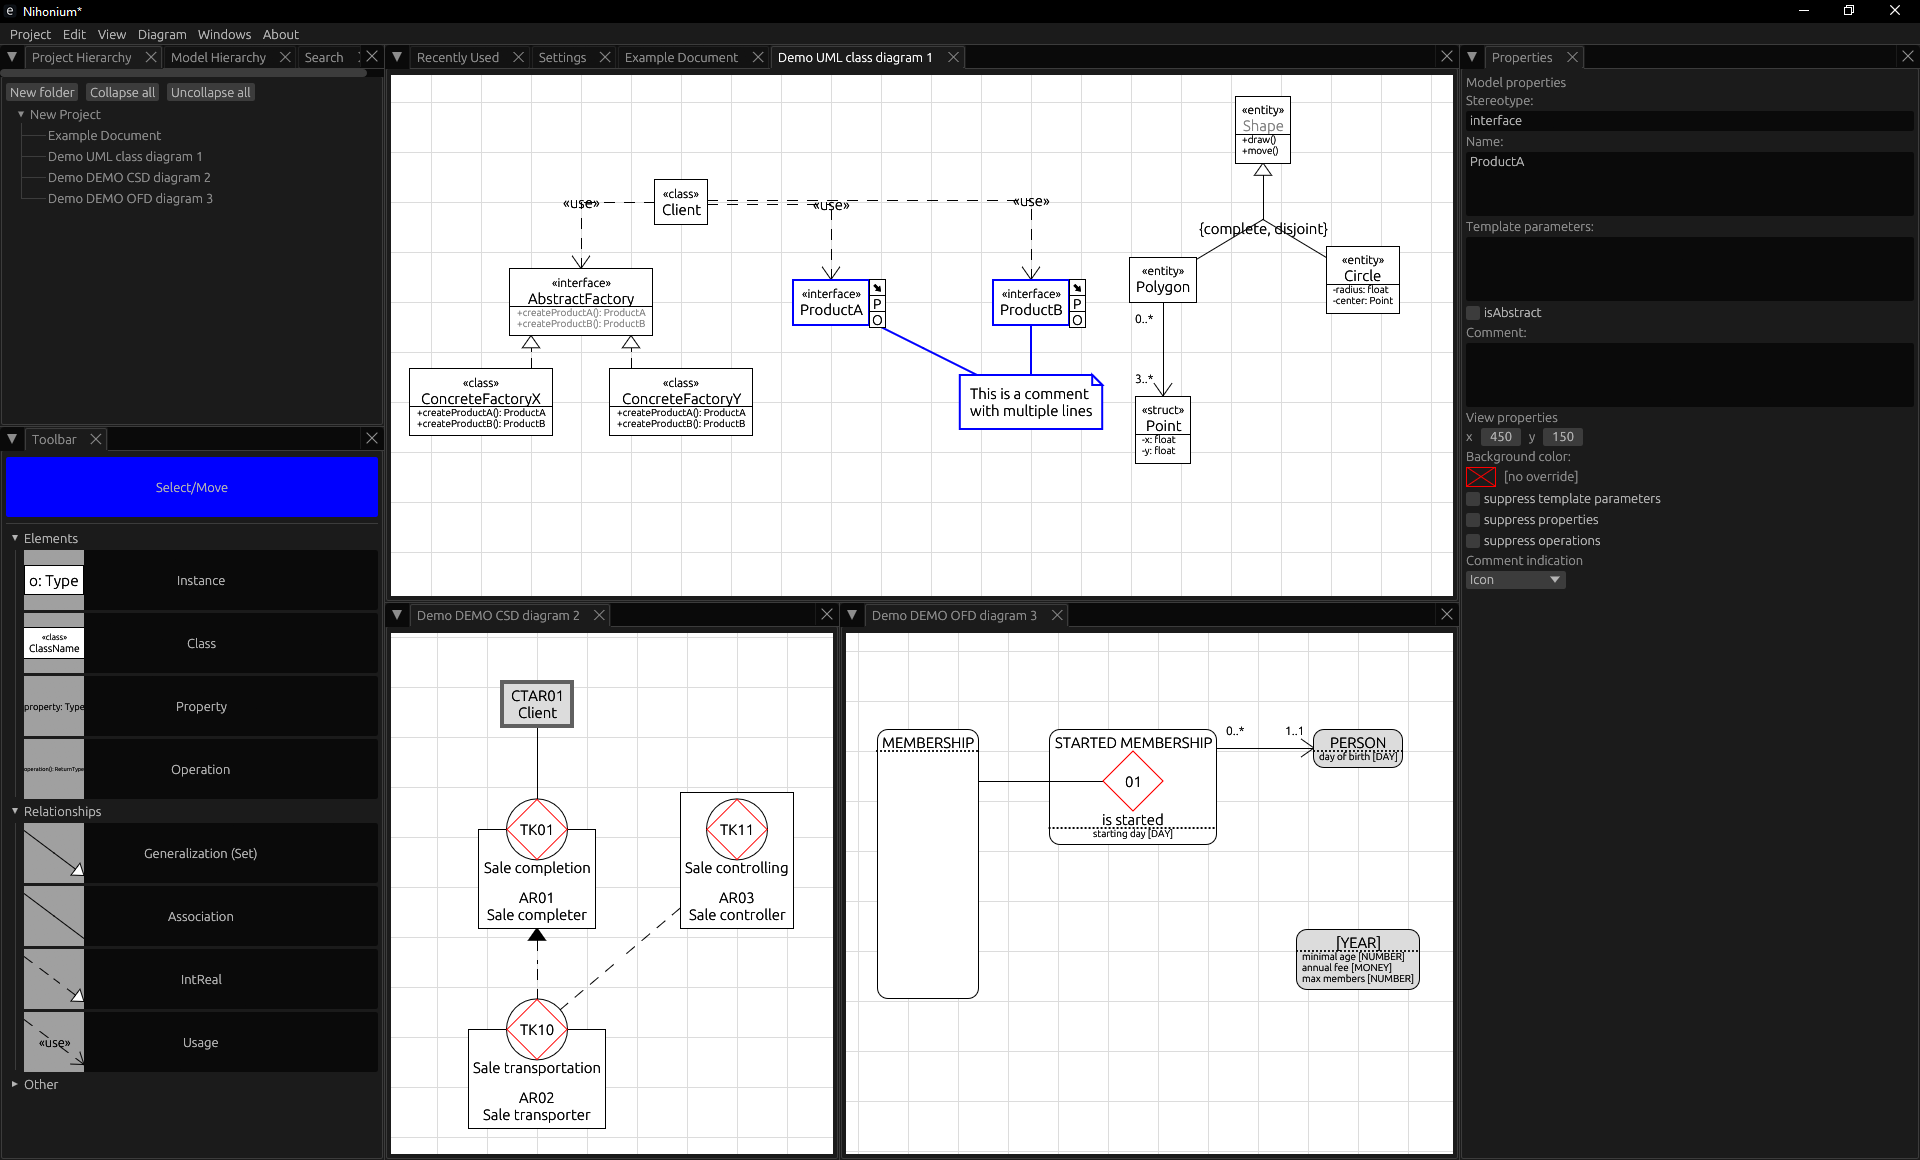
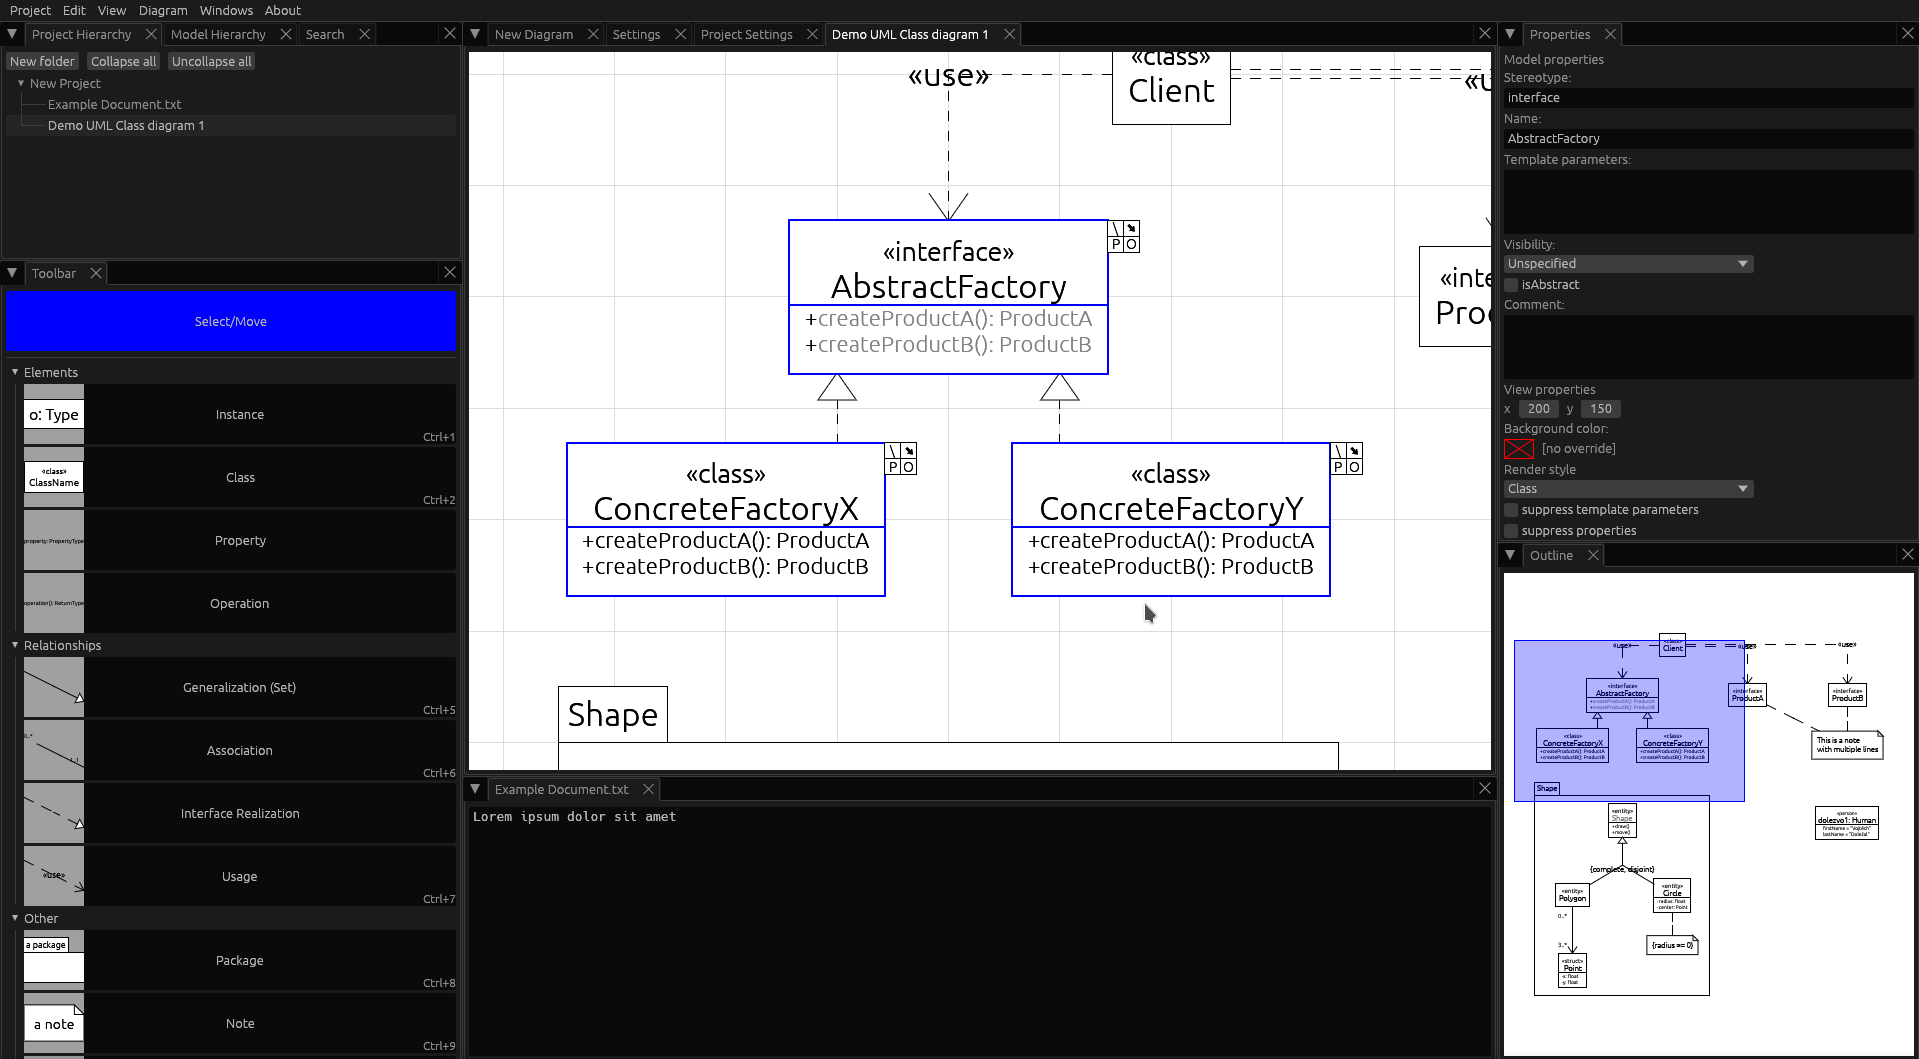
Updated USER_MANUAL

diff --git a/USER_MANUAL.md b/USER_MANUAL.md
@@ -17,11 +17,11 @@ The Project Hierarchy tab shows the project structure, namely diagrams, document
 
 ## Model Hierarchy Tab
 
-The Model Hierarchy tab shows model of the currently selected diagram. Whether an element is represented in the diagram is represented with `[X]`. The context menu may be used, among other uses, to jump to a specific element in the current diagram or to (de)instantiate an element within it.
+The Model Hierarchy tab shows model of the currently selected diagram. The fact that an element is represented in the diagram is indicated with `[X]` to the left of the element name. The context menu may be used, among other, to jump to a specific element in the current diagram or to (de)instantiate an element within it.
 
 ## Search Tab
 
-The Search tab provides a way to search all models. The search expression may contain logical operators `AND`, `OR` and `NOT`.
+The Search tab provides a way to search all models and resources. The search expression may contain logical operators `AND`, `OR` and `NOT`.
 
 ![](img/screenshot_search.png)
 
@@ -52,6 +52,31 @@ The Properties tab shows available properties of the currently selected element 
 The Outline tab shows all content in the current diagram as well as relative position of the viewport.
 
 Clicking or dragging within the outline tab may be used to quickly change the viewport position.
+
+## Settings Tab
+
+Settings set through the Settings tab are persistent and project independent.
+
+The visuals section includes visual options such as Light/Dark UI theme, UI scaling, as well as customization options for egui_dock.
+
+The diagram shades sections serves to control diagram shades, which can be used to ease the stress when working in low light environment. Default shortcut to cycle shades is `Ctrl+K`.
+
+![](img/screenshot_settings_diagramshades.png)
+
+The diagram specific settings section allows for various diagram-specific customizations, such as modification of the toolbar items, or modification of diagram visuals (where supported).
+
+![](img/screenshot_settings_diagramspecific.png)
+
+The keys and shortcuts section allows for various modifications of the behaviour as well as setting of the shortcuts.
+
+![](img/screenshot_settings_keys.png)
+
+
+## Project Settings Tab
+
+Project settings are project-specific (i.e. stored and loaded along with a given project). This most notably includes project metadata (Name, Version, Description, Author) and Global Colors.
+
+![](img/screenshot_projectsettings.png)
 
 # My project files cannot be opened anymore
 
